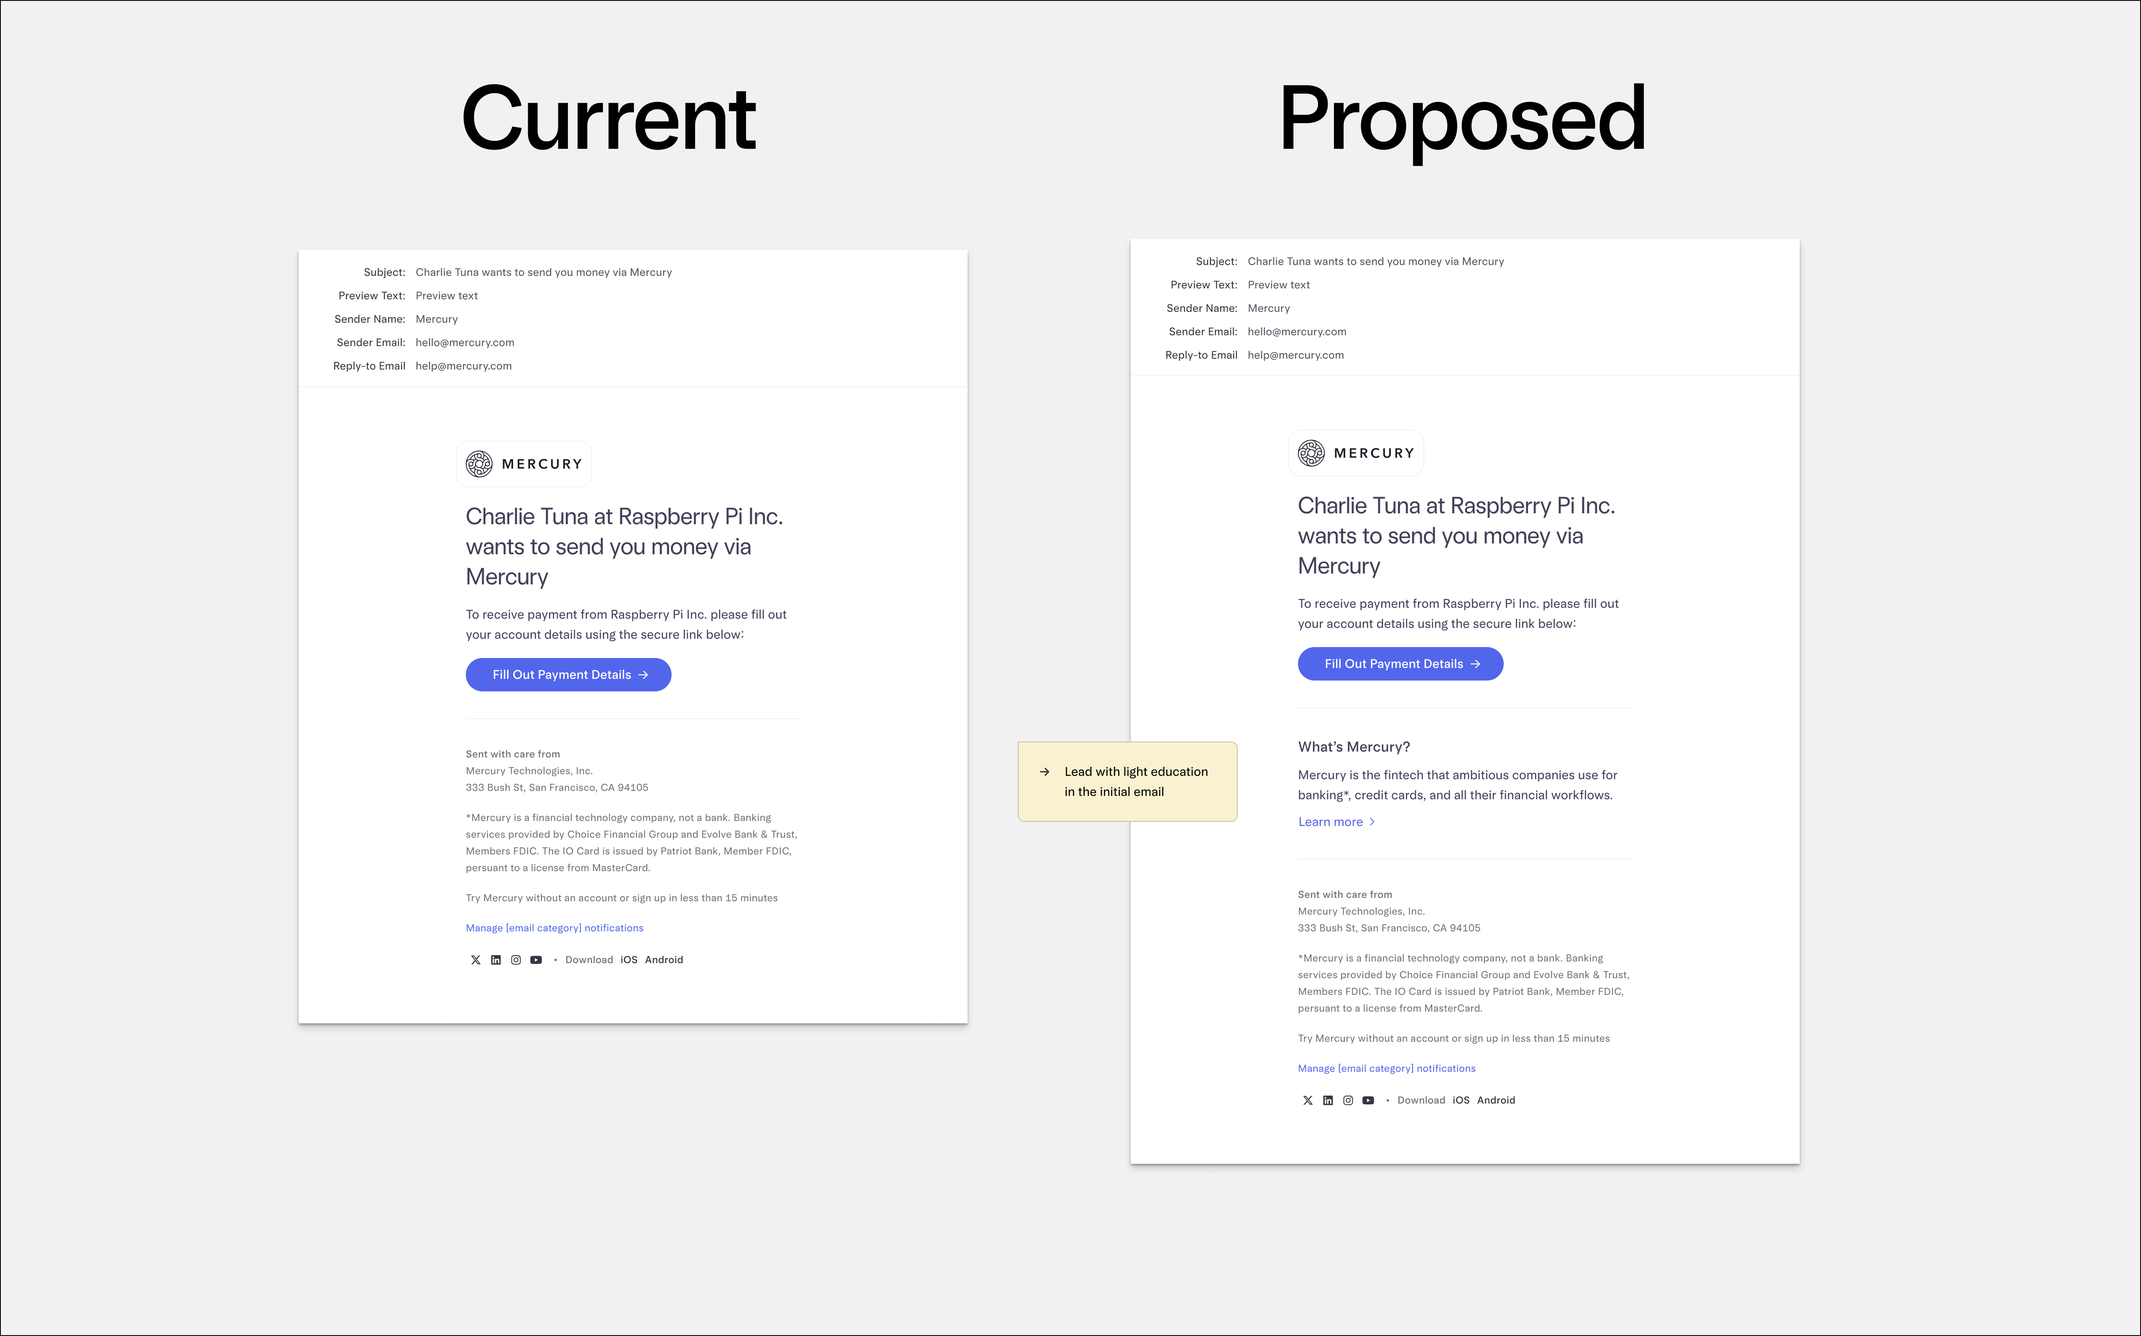
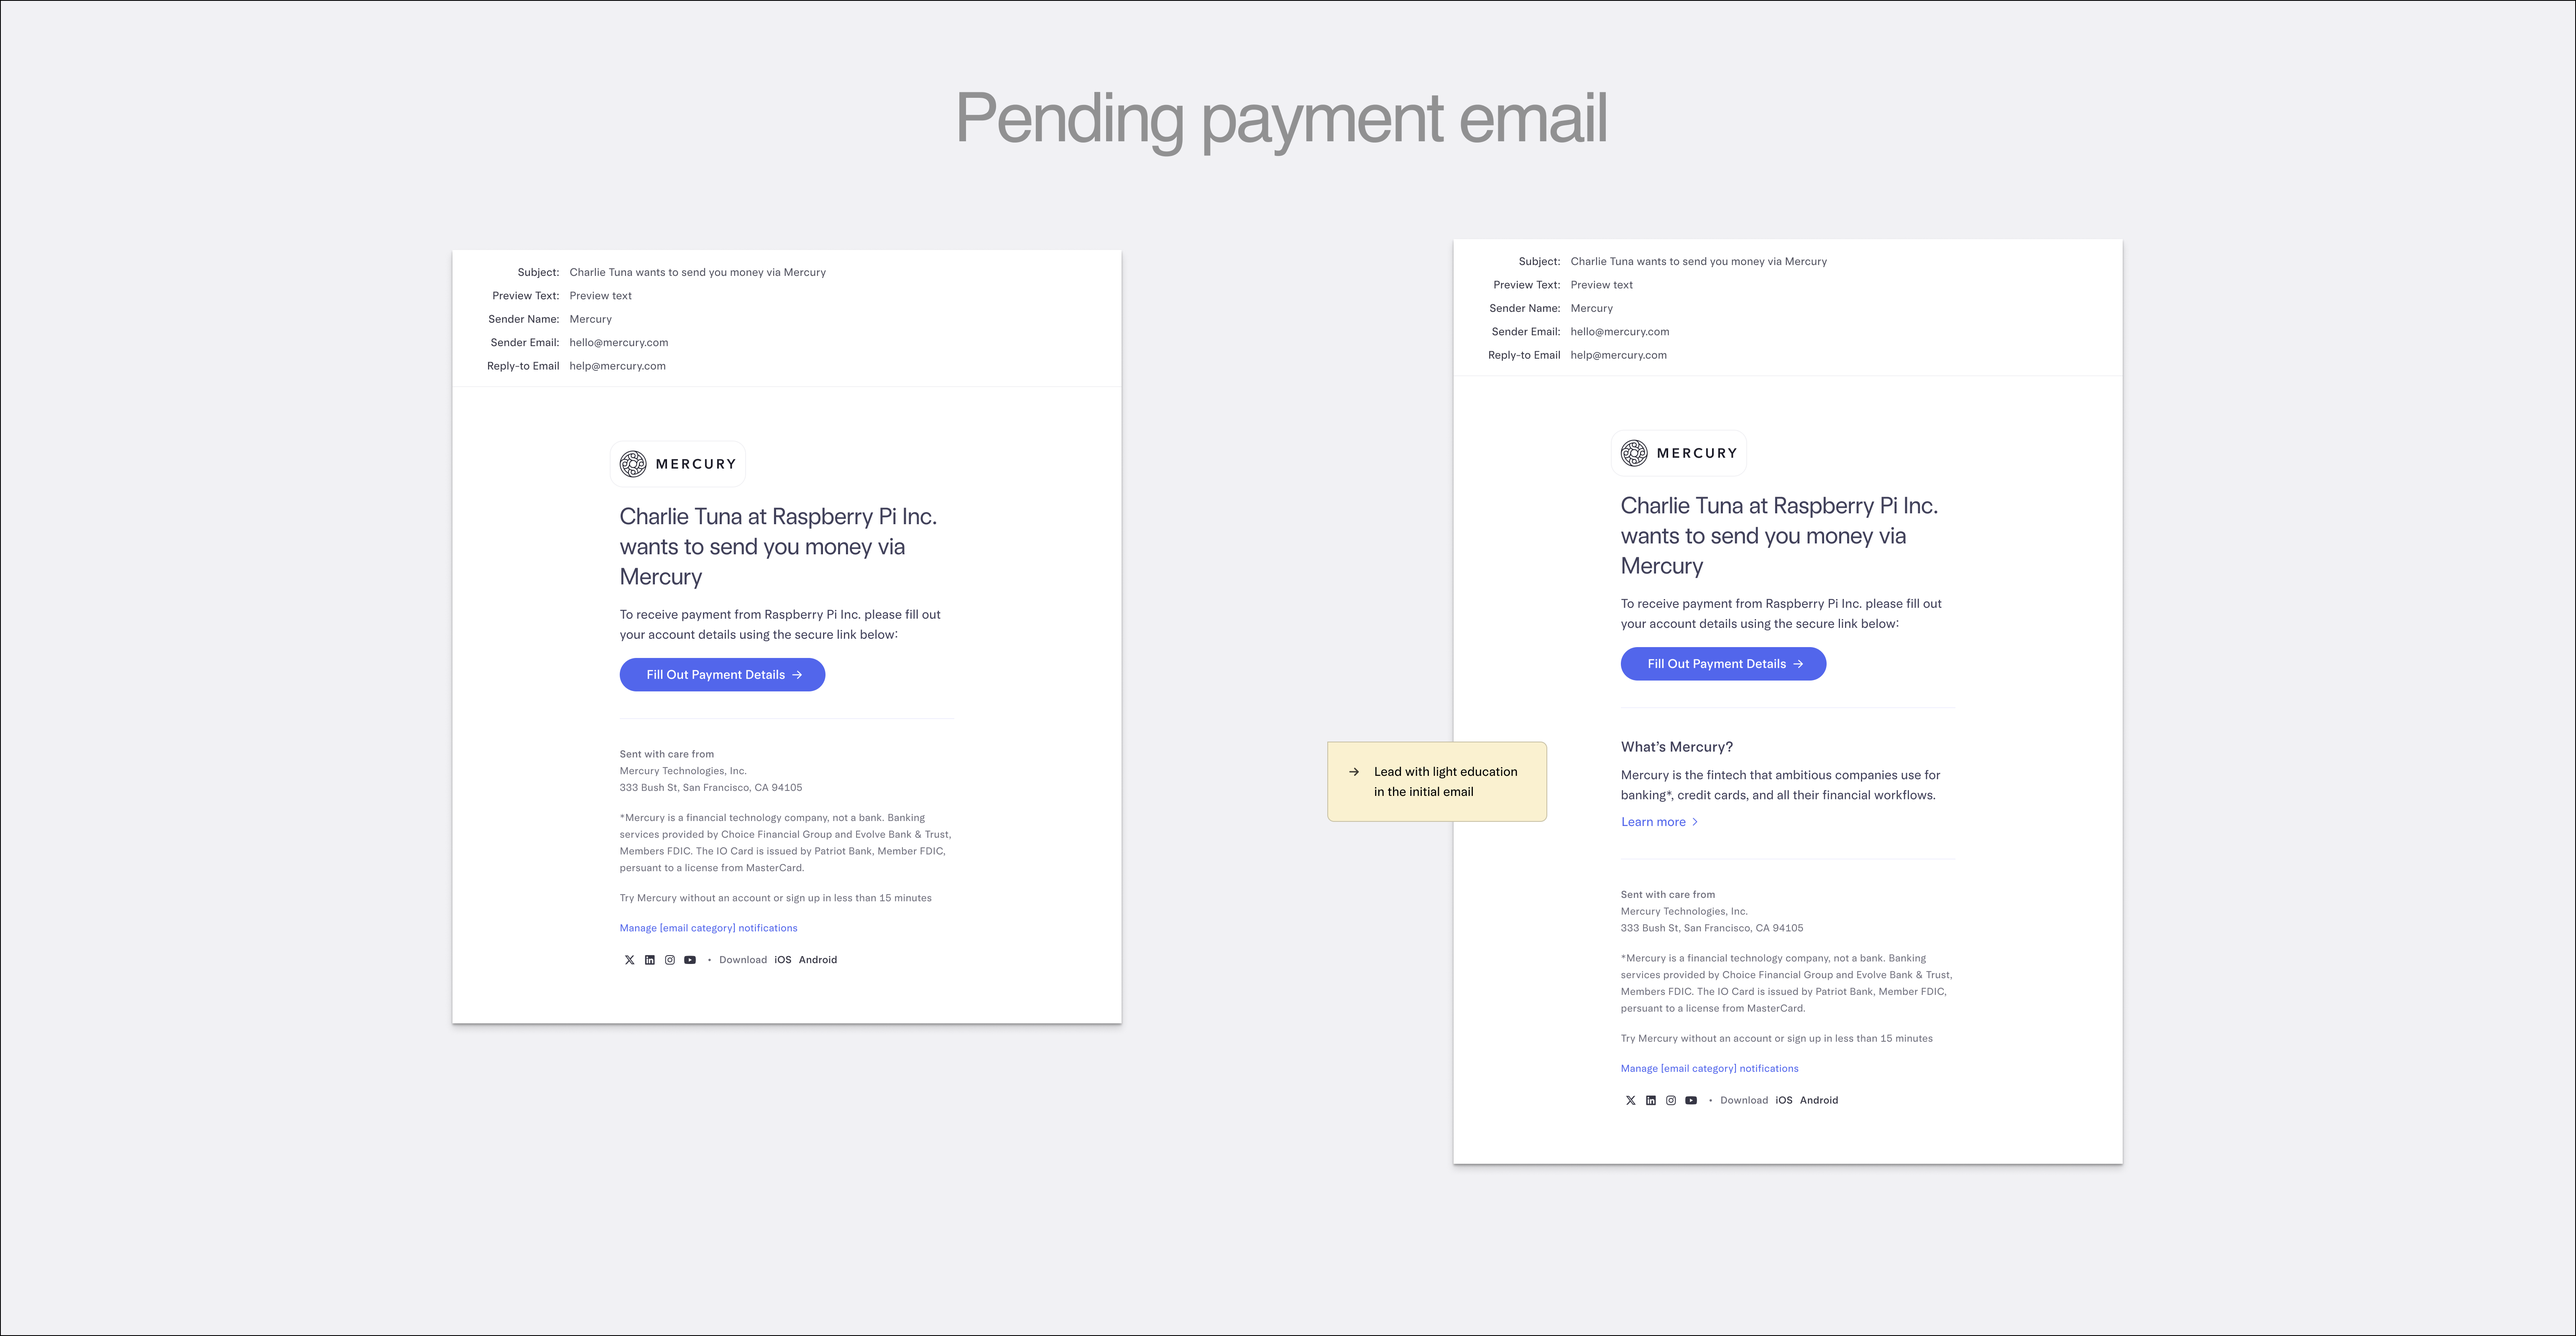
Mercury Viral Upsell: wire all four inline screenshots
- Success screen marker → Virality case study - inline - success.png
- Transactional email marker → Virality case study - inline - success transactional email.png
- Email + form images refreshed (bytes updated, paths unchanged)

diff --git a/work/mercury-viral-upsell/index.html b/work/mercury-viral-upsell/index.html
@@ -413,7 +413,7 @@ main:focus-visible {
 <div class="content-wrapper" id="w-node-e7e06211-75c3-8fac-fd90-6842c36c5c69-a59cf88f">
 <h2>My Process</h2>
 <div class="padding-top padding-medium"></div>
-<div class="text-rich-text w-richtext"><h3>Discovery and framing</h3><p>The work fell into four distinct surfaces:</p><ol><li>The notification <strong>email</strong> a non-Mercury user receives</li><li>The <strong>landing page / form</strong> they hit after clicking through</li><li>The <strong>success screen</strong> shown after they submit their bank info to get paid</li><li>The <strong>success transactional email</strong> sent to confirm the submission and re-anchor them on Mercury</li></ol><p>The legacy version treated these as one transactional flow. I treated them as a <em>drip-education campaign</em>: each surface earns a little more context about who Mercury is and what's in it for the user.</p><h3>The email</h3><p>Original copy was boilerplate. I added a one-line value-prop intro: <em>"Mercury is a fintech that ambitious companies use for banking, credit cards, and financial workflows."</em> Small change, but it sets the floor. By the time someone clicks, they know what they're walking into.</p><figure class="rich-media-figure"><img alt="Notification email — value-prop intro added" loading="lazy" src="../../images/work/Virality%20case%20study%20-%20inline%20-%20email.png"/><figcaption>Notification email — value-prop intro added</figcaption></figure><h3>The landing page</h3><p>The form was unbranded, not mobile-responsive, and dense. The bigger redesign I wanted, breaking the single form into multiple lightweight steps and rethinking the information architecture, was out of scope for this round. So I made the pragmatic call: ship the rebrand, refresh the content container, and make it mobile-responsive. That last one was a real win because mobile traffic on these viral surfaces is significant and the legacy was desktop-first.</p><figure class="rich-media-figure"><img alt="Landing page — rebrand, refreshed container, mobile-responsive" loading="lazy" src="../../images/work/Virality%20case%20study%20-%20inline%20-%20form.png"/><figcaption>Landing page — rebrand, refreshed container, mobile-responsive</figcaption></figure><h3>The success screen</h3><p>Original was a thin confirmation. I redesigned it with clear hierarchy, restated the brand, and surfaced a few Mercury value props. Finally giving the user a reason to come back as a real Mercury customer instead of treating the interaction as a one-off bank-info dropoff.</p><div class="media-placeholder-inline"><span class="media-placeholder-inline__icon">🖼</span><div class="media-placeholder-inline__body"><p class="media-placeholder-inline__type">Screenshot · to re-import</p><p class="media-placeholder-inline__label">Success screen redesign with value props</p></div></div><p>I explored a handful of layout and emphasis alternatives through internal feedback and lightweight customer testing before landing on the current implementation.</p><figure class="rich-media-figure is-iframe-landscape"><iframe allowfullscreen="" height="450" src="https://embed.figma.com/design/knLHsLs6kfXGzX05kcXVz6/Mini-Projects-2025?node-id=63-208284&amp;embed-host=share" style="border:1px solid rgba(0,0,0,0.1);max-width:100%;" width="800"></iframe><figcaption>Alternatives explored via internal feedback + lightweight user testing</figcaption></figure><h3>The success transactional email</h3><p>Once the user submits their bank info, they get a confirmation email. The legacy version was utilitarian, a "you're set" receipt with no follow-through. I rebuilt it with a prominent primary CTA back into the Mercury value prop, plus a secondary action inviting them to explore the product at <a class="text-style-link" href="https://demo.mercury.com" target="_blank">demo.mercury.com</a>. The email becomes the fourth nudge in the drip, not a dead end.</p><h3>Killed ideas</h3><p>The archive had a lot of explorations:</p><ul><li><strong>Right-rail value props</strong> on the landing page. Killed for v1: too much visual weight before users had basic brand context.</li><li><strong>Customer logos / ratings / social proof.</strong> Killed for now. Social proof matters once users have a basic mental model of your product; here, users still need <em>education first</em>. We tested this hunch and confirmed it.</li></ul><div class="media-placeholder-inline"><span class="media-placeholder-inline__icon">🖼</span><div class="media-placeholder-inline__body"><p class="media-placeholder-inline__type">Screenshot · to re-import</p><p class="media-placeholder-inline__label">Explored variations (value-prop rails, social proof, modal takeover)</p></div></div><h3>Hard call: ship within scope</h3><p>I wanted to rethink the IA on the banking info form page: break the dense form into a multi-step conversational flow, like the <a href="../mercury-focused-funding/">Focused Funding</a> work. Couldn't get there in one month with three engineers and no PM. The pragmatic call was to nail the rebrand, mobile responsiveness, and education layering for v1, and queue the IA work for a later round.</p></div>
+<div class="text-rich-text w-richtext"><h3>Discovery and framing</h3><p>The work fell into four distinct surfaces:</p><ol><li>The notification <strong>email</strong> a non-Mercury user receives</li><li>The <strong>landing page / form</strong> they hit after clicking through</li><li>The <strong>success screen</strong> shown after they submit their bank info to get paid</li><li>The <strong>success transactional email</strong> sent to confirm the submission and re-anchor them on Mercury</li></ol><p>The legacy version treated these as one transactional flow. I treated them as a <em>drip-education campaign</em>: each surface earns a little more context about who Mercury is and what's in it for the user.</p><h3>The email</h3><p>Original copy was boilerplate. I added a one-line value-prop intro: <em>"Mercury is a fintech that ambitious companies use for banking, credit cards, and financial workflows."</em> Small change, but it sets the floor. By the time someone clicks, they know what they're walking into.</p><figure class="rich-media-figure"><img alt="Notification email — value-prop intro added" loading="lazy" src="../../images/work/Virality%20case%20study%20-%20inline%20-%20email.png"/><figcaption>Notification email — value-prop intro added</figcaption></figure><h3>The landing page</h3><p>The form was unbranded, not mobile-responsive, and dense. The bigger redesign I wanted, breaking the single form into multiple lightweight steps and rethinking the information architecture, was out of scope for this round. So I made the pragmatic call: ship the rebrand, refresh the content container, and make it mobile-responsive. That last one was a real win because mobile traffic on these viral surfaces is significant and the legacy was desktop-first.</p><figure class="rich-media-figure"><img alt="Landing page — rebrand, refreshed container, mobile-responsive" loading="lazy" src="../../images/work/Virality%20case%20study%20-%20inline%20-%20form.png"/><figcaption>Landing page — rebrand, refreshed container, mobile-responsive</figcaption></figure><h3>The success screen</h3><p>Original was a thin confirmation. I redesigned it with clear hierarchy, restated the brand, and surfaced a few Mercury value props. Finally giving the user a reason to come back as a real Mercury customer instead of treating the interaction as a one-off bank-info dropoff.</p><figure class="rich-media-figure"><img alt="Success screen — restated brand, clearer hierarchy, surfaced value props" loading="lazy" src="../../images/work/Virality%20case%20study%20-%20inline%20-%20success.png"/><figcaption>Success screen — restated brand, clearer hierarchy, surfaced value props</figcaption></figure><p>I explored a handful of layout and emphasis alternatives through internal feedback and lightweight customer testing before landing on the current implementation.</p><figure class="rich-media-figure is-iframe-landscape"><iframe allowfullscreen="" height="450" src="https://embed.figma.com/design/knLHsLs6kfXGzX05kcXVz6/Mini-Projects-2025?node-id=63-208284&amp;embed-host=share" style="border:1px solid rgba(0,0,0,0.1);max-width:100%;" width="800"></iframe><figcaption>Alternatives explored via internal feedback + lightweight user testing</figcaption></figure><h3>The success transactional email</h3><p>Once the user submits their bank info, they get a confirmation email. The legacy version was utilitarian, a "you're set" receipt with no follow-through. I rebuilt it with a prominent primary CTA back into the Mercury value prop, plus a secondary action inviting them to explore the product at <a class="text-style-link" href="https://demo.mercury.com" target="_blank">demo.mercury.com</a>. The email becomes the fourth nudge in the drip, not a dead end.</p><figure class="rich-media-figure"><img alt="Confirmation email — prominent primary CTA + secondary demo.mercury.com action" loading="lazy" src="../../images/work/Virality%20case%20study%20-%20inline%20-%20success%20transactional%20email.png"/><figcaption>Confirmation email — prominent primary CTA + secondary demo.mercury.com action</figcaption></figure><h3>Killed ideas</h3><p>The archive had a lot of explorations:</p><ul><li><strong>Right-rail value props</strong> on the landing page. Killed for v1: too much visual weight before users had basic brand context.</li><li><strong>Customer logos / ratings / social proof.</strong> Killed for now. Social proof matters once users have a basic mental model of your product; here, users still need <em>education first</em>. We tested this hunch and confirmed it.</li></ul><h3>Hard call: ship within scope</h3><p>I wanted to rethink the IA on the banking info form page: break the dense form into a multi-step conversational flow, like the <a href="../mercury-focused-funding/">Focused Funding</a> work. Couldn't get there in one month with three engineers and no PM. The pragmatic call was to nail the rebrand, mobile responsiveness, and education layering for v1, and queue the IA work for a later round.</p><div class="media-placeholder-inline"><span class="media-placeholder-inline__icon">🖼</span><div class="media-placeholder-inline__body"><p class="media-placeholder-inline__type">Screenshot · to re-import</p><p class="media-placeholder-inline__label">Explored variations (value-prop rails, social proof, modal takeover)</p></div></div></div>
 </div>
 </div>
 </div>

diff --git a/scripts/build_work.py b/scripts/build_work.py
@@ -121,6 +121,14 @@ MEDIA_RESOLUTIONS = {
         "embed": FIGMA_MERCURY_VIRAL_SUCCESS_ALTS, "aspect": "landscape",
         "caption": "Alternatives explored via internal feedback + lightweight user testing",
     },
+    "Success screen redesign with value props": {
+        "src": img("images/work/Virality case study - inline - success.png"),
+        "caption": "Success screen — restated brand, clearer hierarchy, surfaced value props",
+    },
+    "Success transactional email redesign": {
+        "src": img("images/work/Virality case study - inline - success transactional email.png"),
+        "caption": "Confirmation email — prominent primary CTA + secondary demo.mercury.com action",
+    },
 }
 
 ROOT = Path(__file__).resolve().parent.parent

diff --git a/scripts/inject_media_markers.py b/scripts/inject_media_markers.py
@@ -158,6 +158,9 @@ INSERTIONS = [
      "before landing on the current implementation.</p>",
      "[[MEDIA:figma|Success screen alternative explorations]]"),
     ("mercury-viral-upsell", "My Process",
+     "The email becomes the fourth nudge in the drip, not a dead end.</p>",
+     "[[MEDIA:image|Success transactional email redesign]]"),
+    ("mercury-viral-upsell", "My Process",
      "a takeover felt aggressive on top of it.</li></ul>",
      "[[MEDIA:image|Explored variations (value-prop rails, social proof, modal takeover)]]"),
 ]
